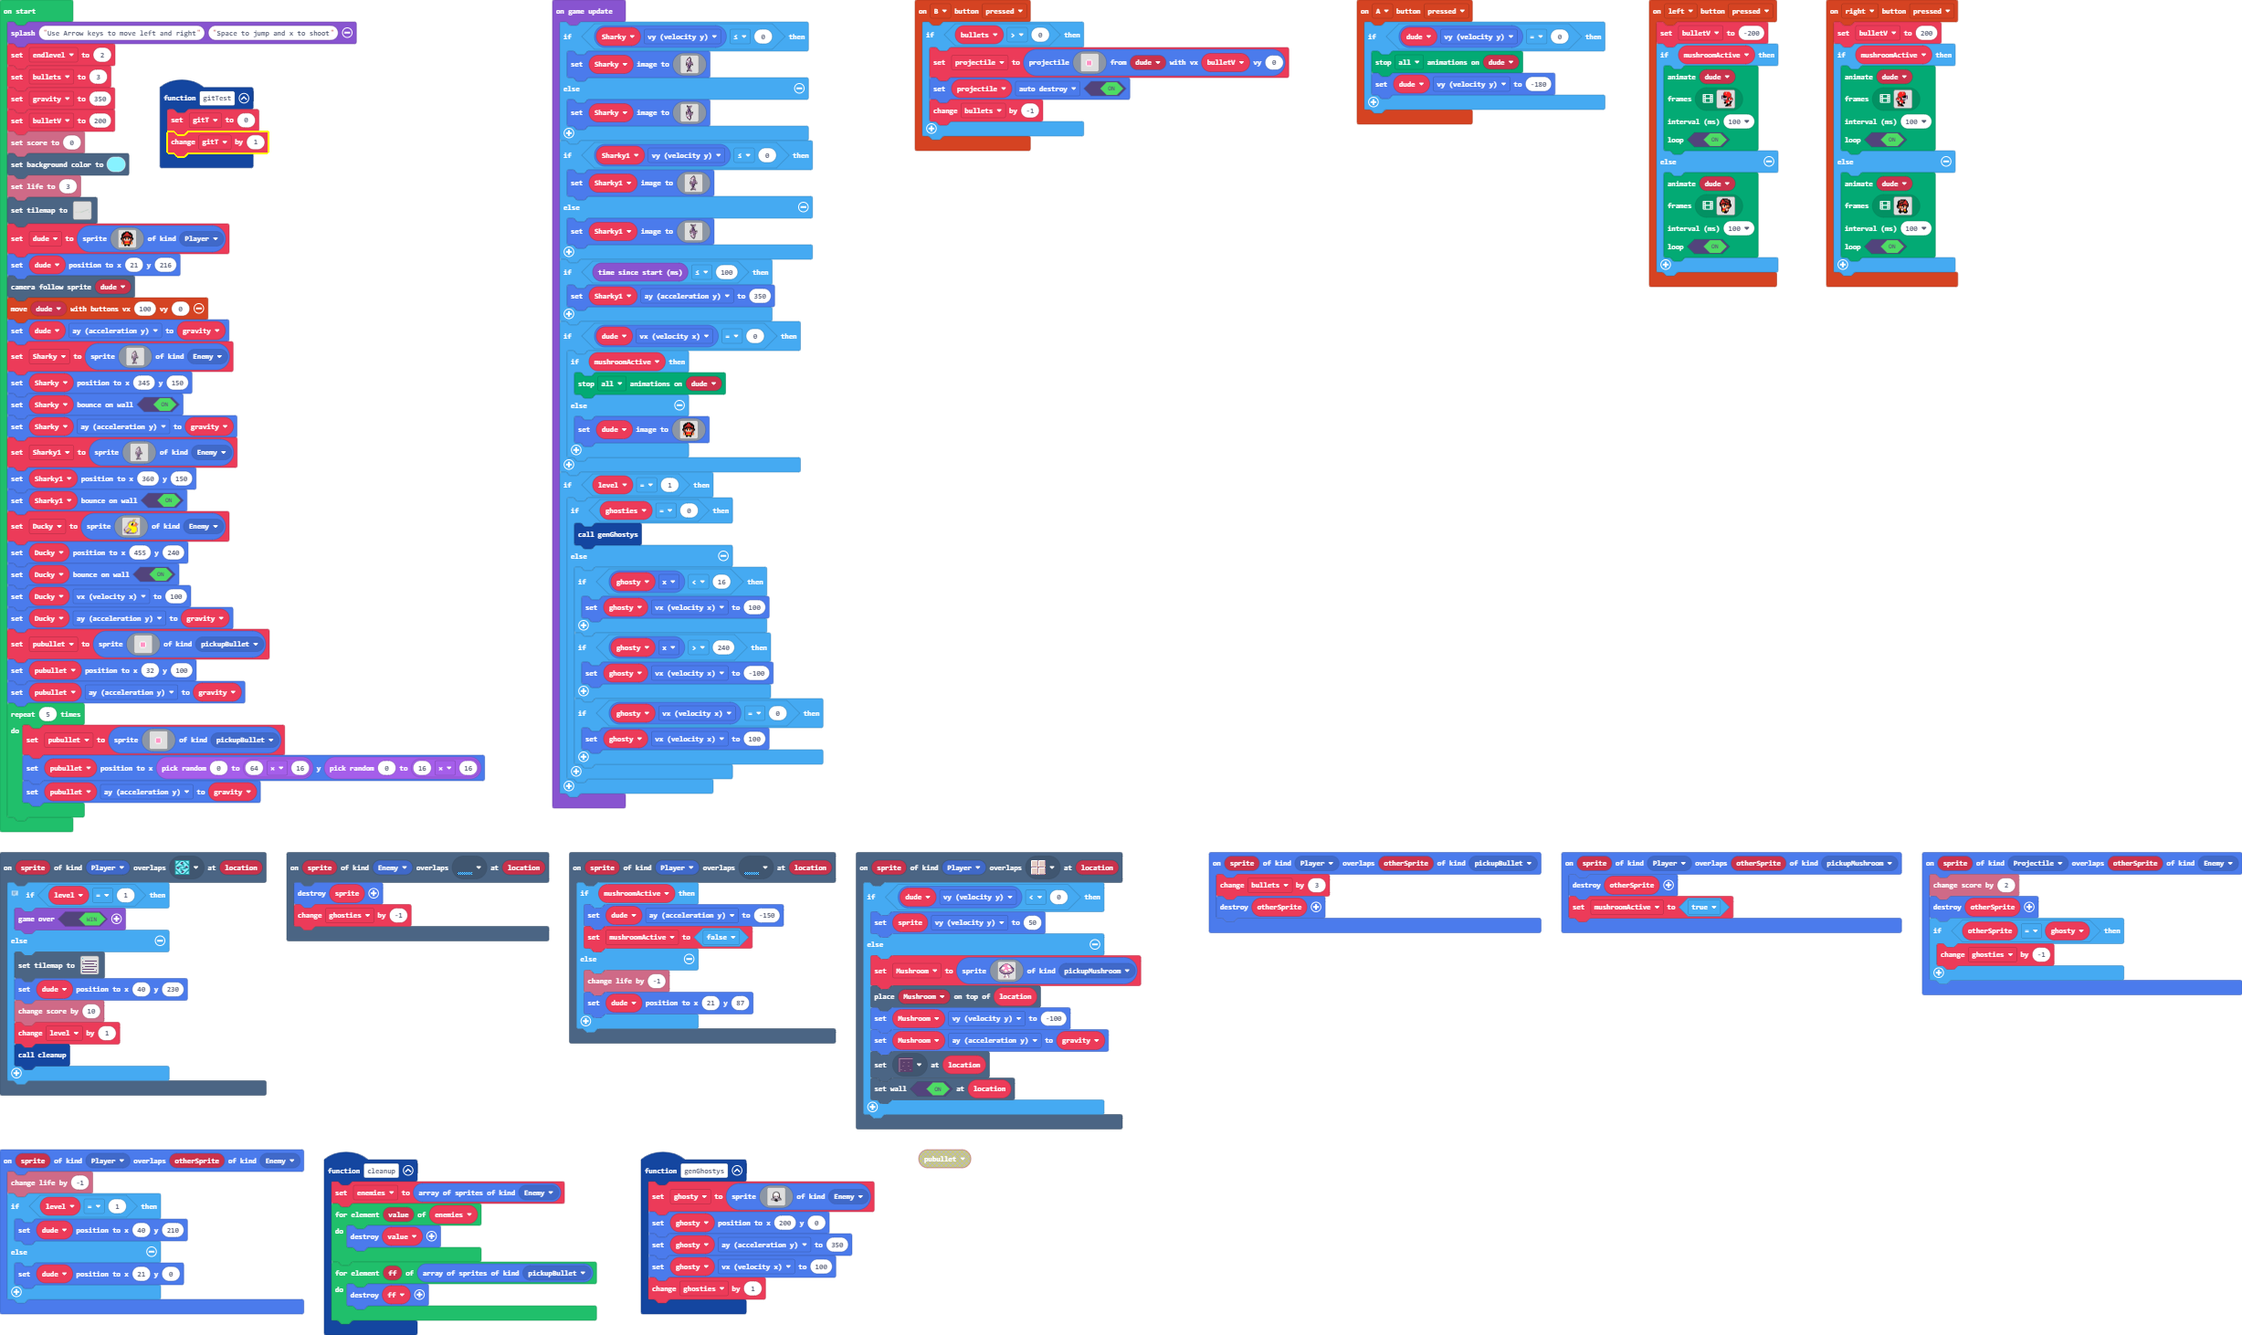
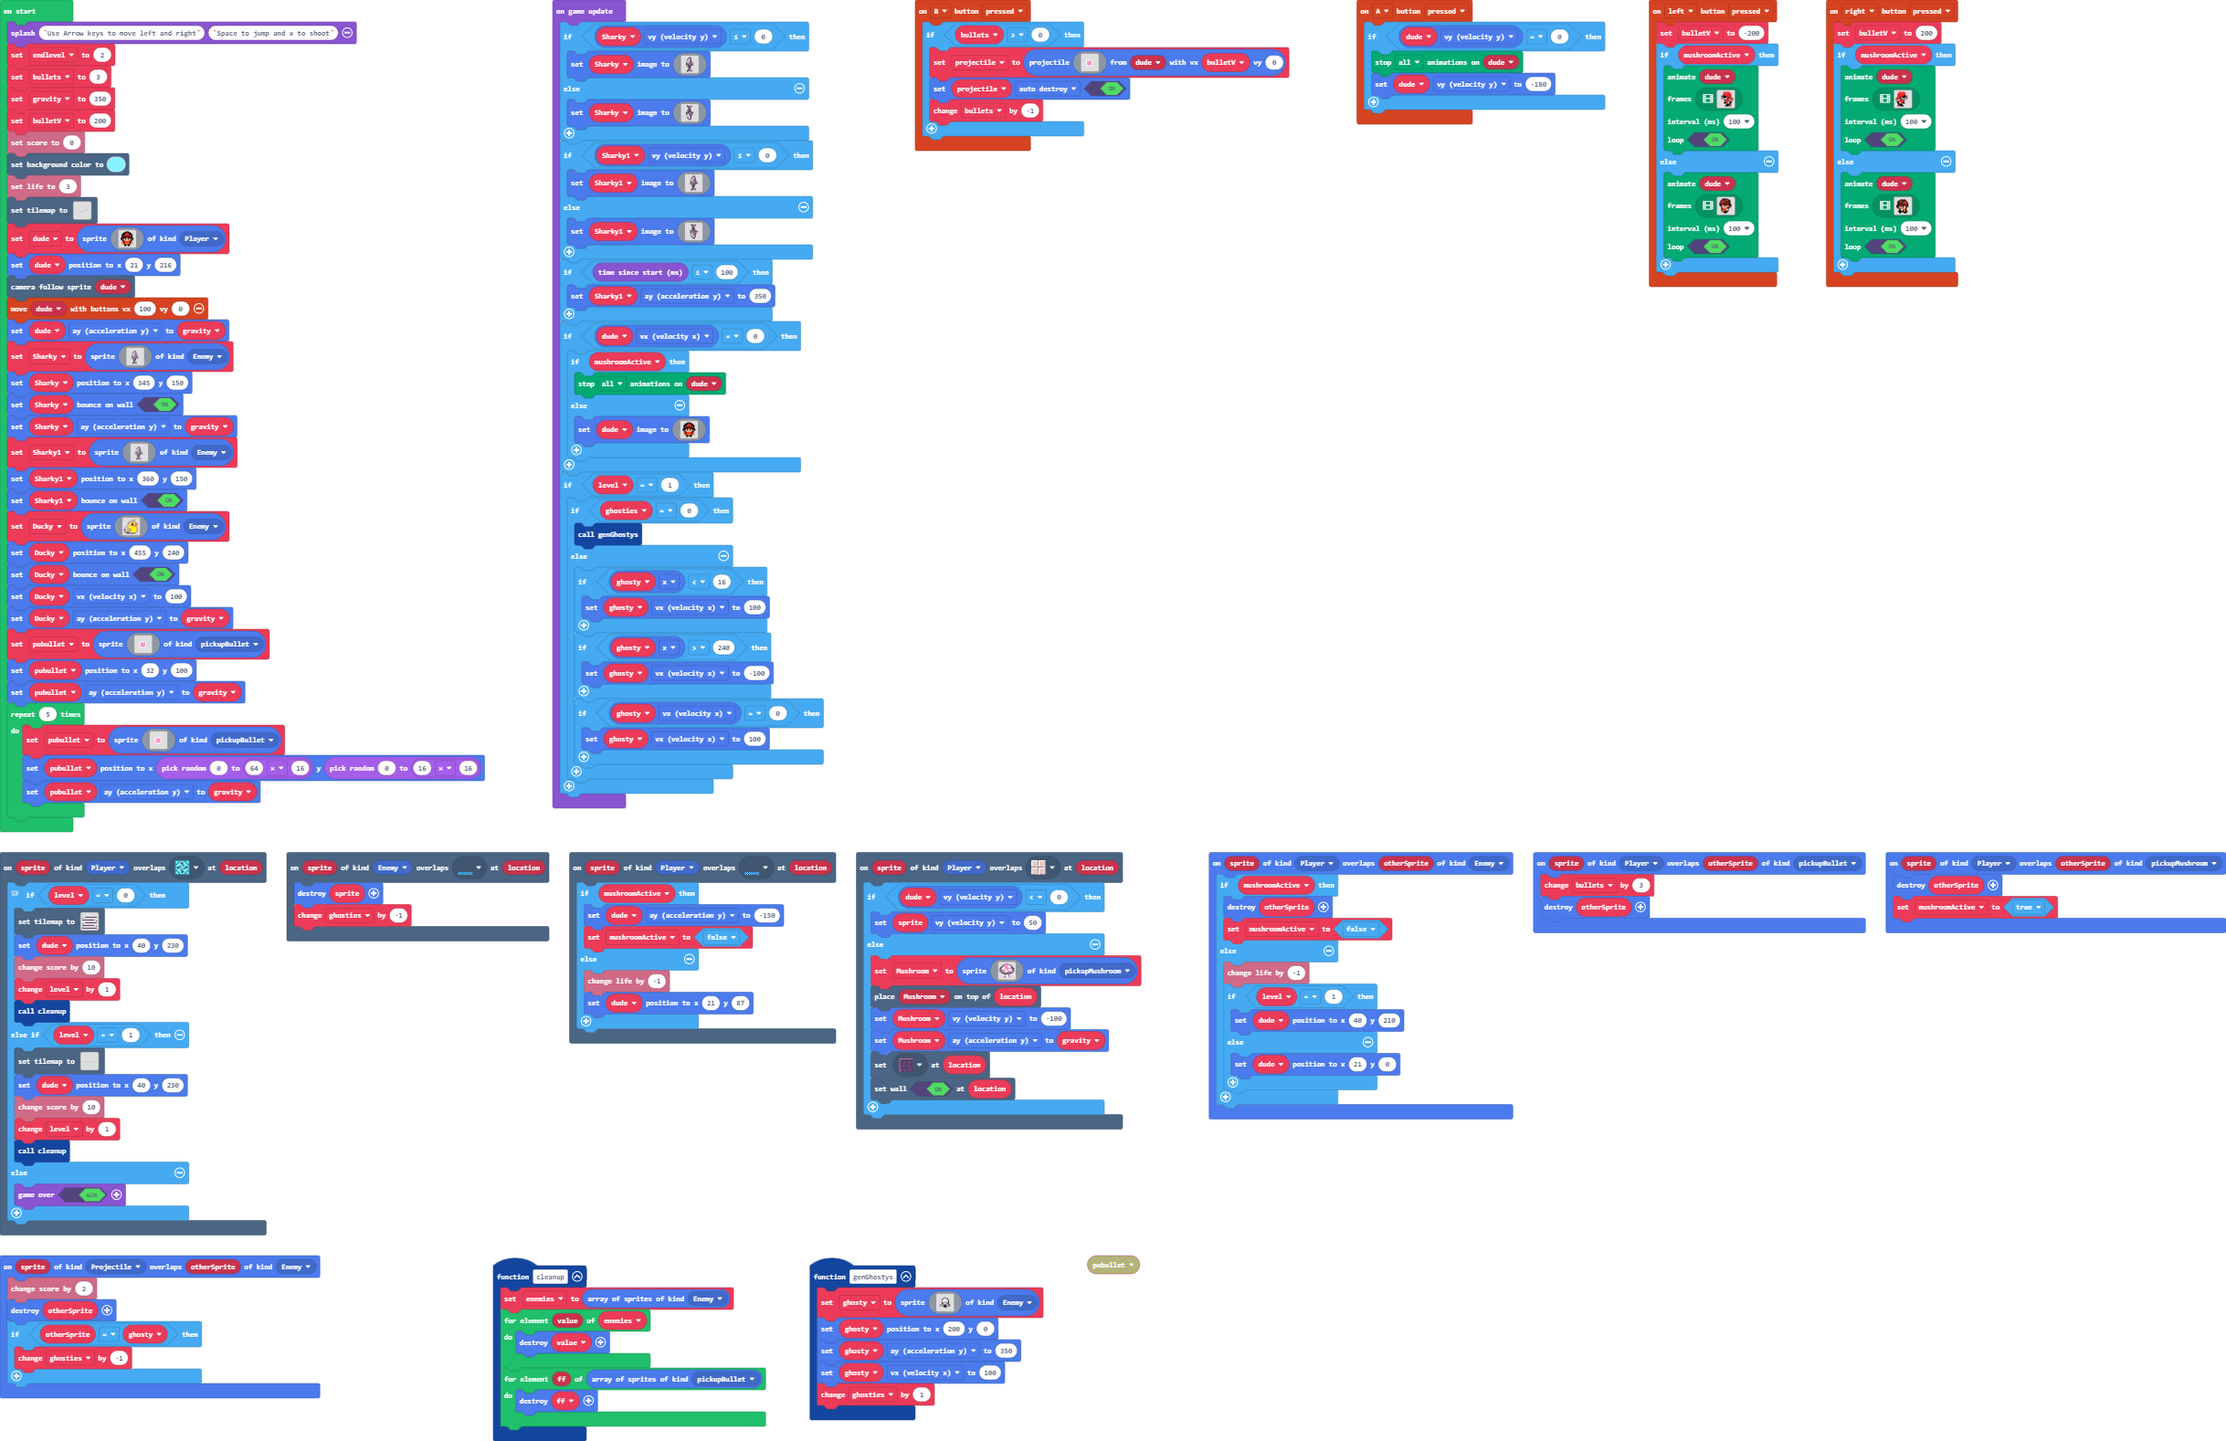
Fix PU enable 3rd level change level logic

Changed region(s): [[0.0, 0.0, 1.0, 1.0], [0.4054, 0.0, 0.9044, 0.2155]]

diff --git a/tilemap.g.ts b/tilemap.g.ts
@@ -7,25 +7,6 @@ namespace myTiles {
 
     helpers._registerFactory("tilemap", function(name: string) {
         switch(helpers.stringTrim(name)) {
-            case "level3":
-            case "level3":return tiles.createTilemap(hex`1000100000000000000000000000000000000000000000000000000000000000000000000000000000000000000000000000000000000000000000000000000000000000000000000000000000000000000000000000000000000000000000000000000000000000000000000000000000000000000000000000000000000000000000000000000000000000000000000000000000000000000000000000000000000000000000000000000000000000000000000000000000000000000000000000000000000000000000000000000000000000000000000000000000000000000000000000000000000000000000000000000000000000000000000000000000000000`, img`
-. . . . . . . . . . . . . . . . 
-. . . . . . . . . . . . . . . . 
-. . . . . . . . . . . . . . . . 
-. . . . . . . . . . . . . . . . 
-. . . . . . . . . . . . . . . . 
-. . . . . . . . . . . . . . . . 
-. . . . . . . . . . . . . . . . 
-. . . . . . . . . . . . . . . . 
-. . . . . . . . . . . . . . . . 
-. . . . . . . . . . . . . . . . 
-. . . . . . . . . . . . . . . . 
-. . . . . . . . . . . . . . . . 
-. . . . . . . . . . . . . . . . 
-. . . . . . . . . . . . . . . . 
-. . . . . . . . . . . . . . . . 
-. . . . . . . . . . . . . . . . 
-`, [myTiles.transparency16], TileScale.Sixteen);
             case "level2":
             case "level2":return tiles.createTilemap(hex`1000100002000000000000000000000000000000000000000000000000000000000000000000000000000000000000000000000000000001010101010101010101010101010000000000000000000000000000000000000000000000000000000000000001010101010101010101010101000000000000000000000000000000000000010000000000000000000000000000000000000001010101010101010101010101010000000000000000000000000000000000000000000000000000000000000003010101010101010101010101000000000000000000000000000000000000010400000000000000000000000000000001010101010101010101010101010101`, img`
 . . . . . . . . . . . . . . . . 
@@ -140,6 +121,101 @@ namespace myTiles {
 ..2................22..22....22.................................
 22222.222222222222222..22222..................................22
 `, [myTiles.transparency16,sprites.castle.tilePath1,sprites.castle.tilePath2,sprites.castle.tilePath5,sprites.castle.tilePath3,sprites.castle.tilePath4,sprites.castle.tilePath6,sprites.castle.tileGrass3,sprites.builtin.forestTiles2,sprites.builtin.forestTiles4,sprites.builtin.forestTiles1,sprites.builtin.forestTiles3,sprites.builtin.forestTiles8,sprites.builtin.forestTiles16,sprites.builtin.forestTiles22,sprites.builtin.forestTiles28,sprites.builtin.forestTiles0,sprites.dungeon.collectibleInsignia,myTiles.tile1,sprites.dungeon.floorLight0], TileScale.Sixteen);
+            case "level3":
+            case "level3":return tiles.createTilemap(hex`800010000000000000000000000000000000000000000000000000000000000000000000000000000000000000000000000000000000000000000000000000000000000000000000000000000000000000000000000000000000000000000000000000000000000000000000000000000000000000000000000000000000000000000000000000000000000000000000000000000000000000000000000000000000000000000000000000000000000000000000000000000000000000000000000000000000000000000000000000000000000000000000000000000000000000000000000000000000000000000000000000000000000000000000000000000000000000000000000000000000000000000000000000000000000000000000000000000000000000000000000000000000000000000000000000000000000000000000000000000000000000000000000000000000000000000000000000000000000000000000000000000000000000000000000000000000000000000000000000000000000000000000000000000000000000000000000000000000000000000000000000000000000000000000000000000000000000000000000000000000000000000000000000000000000000000000000000000000000000000000000000000000000000000000000000000000000000000000000000000000000000000000000000000000000000000000000000000000000000000000000000000000000000000000000000000000000000000000000000000000000000000000000000000000000000000000000000000000000000000000000000000000000000000000000000000000000000000000000000000000000000000000000000000000000000000000000000000000000000000000000000000000000000000000000000000000000000000000000000000000000000000000000000000000000000000000000000000000000000000000000000000000000000000000000000000000000000000000000000000000000000000000000000000000000000000000000000000000000000000000000000000000000000000000000000000000000000000000000000000000000000000000000000000000000000000000000000000000000000000000000000000000000000000000000000000000000000000000000000000000000000000000000000000000000000000000000000000000000000000000000000000000000000000000000000000000000000000000000000000000000000000000000000000000000000000000000000000000000000000000000000000000000000000000000000000000000000000000000000000000000000000000000000000000000000000000000000000000000000000000000000000000000000000000000000000000000000000000000000000000000000000000000000000000000000000000000000000000000000000000000000000000000000000000000000000000000000000000000000000000000000000000000000000000000000000000000000000000000000000000000000000000000000000000000000000000000000000000000000000000000000000000000000000000000000000000000000000000000000000000000000000000000000000000000000000000000000000000000000000000000000000000000000000000000000000000000000000000000000000000000000000000000000000000000000000000000000000000000000000000000000000000000000000000000000000000000000000000000000000000000000000000000000000000000000000000000000000000000000000000000000000000000000000000000000000000000000000000000000000000000000000000000000000000000000000000000000000000000000000000000000000000000000000000000000000000000000000000000000000000000000000000000000000000000000000000000000000000000000000000000000000000000000000000000000000000000000000000000000000000000000000000000000000000000000000000000000000000000000000000000000000000000000000000000000000000000000000000000000000000000000000000000000000000000000000000000000000000000000000000000000000000000000000000000000000000000000000000000000000000000000000000000000000000000000000000000000000000000000000000000000000000000000000000000000000000000000000000000000000000000000000000000000000000000000000000000000000000000000000000000000000000000000000000000000000000000000000000000000000000000000000000000000000000000000000000000000000000000000000000000000000000000000000000000000000000000000000000000001000000000000000000000000000000000000000000000000000000000000000000000000000000000000000000000000000000000000000000000000000000000000000000000000000000000000000000000000000000000000000000000000000000000000000000000000000000000000000000000000000000000000020001010101010101010101010101010101010101010101010101010101010101010101010101010101010101010101010101010101010101010101010101010101010101010101010101010101010101010101010101010101010101010101010101010101010101010101010101010101010101010101010101010101010101`, img`
+................................................................................................................................
+................................................................................................................................
+................................................................................................................................
+................................................................................................................................
+................................................................................................................................
+................................................................................................................................
+................................................................................................................................
+................................................................................................................................
+................................................................................................................................
+................................................................................................................................
+................................................................................................................................
+................................................................................................................................
+................................................................................................................................
+................................................................................................................................
+................................................................................................................................
+22222222222222222222222222222222222222222222222222222222222222222222222222222222222222222222222222222222222222222222222222222222
+`, [myTiles.transparency16,sprites.builtin.oceanDepths3,sprites.dungeon.collectibleInsignia], TileScale.Sixteen);
+            case "level8":
+            case "level8":return tiles.createTilemap(hex`1000100000000000000000000000000000000000000000000000000000000000000000000000000000000000000000000000000000000000000000000000000000000000000000000000000000000000000000000000000000000000000000000000000000000000000000000000000000000000000000000000000000000000000000000000000000000000000000000000000000000000000000000000000000000000000000000000000000000000000000000000000000000000000000000000000000000000000000000000000000000000000000000000000000000000000000000000000000000000000000000000000000000000000000000000000000000000`, img`
+. . . . . . . . . . . . . . . . 
+. . . . . . . . . . . . . . . . 
+. . . . . . . . . . . . . . . . 
+. . . . . . . . . . . . . . . . 
+. . . . . . . . . . . . . . . . 
+. . . . . . . . . . . . . . . . 
+. . . . . . . . . . . . . . . . 
+. . . . . . . . . . . . . . . . 
+. . . . . . . . . . . . . . . . 
+. . . . . . . . . . . . . . . . 
+. . . . . . . . . . . . . . . . 
+. . . . . . . . . . . . . . . . 
+. . . . . . . . . . . . . . . . 
+. . . . . . . . . . . . . . . . 
+. . . . . . . . . . . . . . . . 
+. . . . . . . . . . . . . . . . 
+`, [myTiles.transparency16], TileScale.Sixteen);
+            case "level9":
+            case "level9":return tiles.createTilemap(hex`1000100000000000000000000000000000000000000000000000000000000000000000000000000000000000000000000000000000000000000000000000000000000000000000000000000000000000000000000000000000000000000000000000000000000000000000000000000000000000000000000000000000000000000000000000000000000000000000000000000000000000000000000000000000000000000000000000000000000000000000000000000000000000000000000000000000000000000000000000000000000000000000000000000000000000000000000000000000000000000000000000000000000000000000000000000000000000`, img`
+. . . . . . . . . . . . . . . . 
+. . . . . . . . . . . . . . . . 
+. . . . . . . . . . . . . . . . 
+. . . . . . . . . . . . . . . . 
+. . . . . . . . . . . . . . . . 
+. . . . . . . . . . . . . . . . 
+. . . . . . . . . . . . . . . . 
+. . . . . . . . . . . . . . . . 
+. . . . . . . . . . . . . . . . 
+. . . . . . . . . . . . . . . . 
+. . . . . . . . . . . . . . . . 
+. . . . . . . . . . . . . . . . 
+. . . . . . . . . . . . . . . . 
+. . . . . . . . . . . . . . . . 
+. . . . . . . . . . . . . . . . 
+. . . . . . . . . . . . . . . . 
+`, [myTiles.transparency16], TileScale.Sixteen);
+            case "level10":
+            case "level10":return tiles.createTilemap(hex`1000100000000000000000000000000000000000000000000000000000000000000000000000000000000000000000000000000000000000000000000000000000000000000000000000000000000000000000000000000000000000000000000000000000000000000000000000000000000000000000000000000000000000000000000000000000000000000000000000000000000000000000000000000000000000000000000000000000000000000000000000000000000000000000000000000000000000000000000000000000000000000000000000000000000000000000000000000000000000000000000000000000000000000000000000000000000000`, img`
+. . . . . . . . . . . . . . . . 
+. . . . . . . . . . . . . . . . 
+. . . . . . . . . . . . . . . . 
+. . . . . . . . . . . . . . . . 
+. . . . . . . . . . . . . . . . 
+. . . . . . . . . . . . . . . . 
+. . . . . . . . . . . . . . . . 
+. . . . . . . . . . . . . . . . 
+. . . . . . . . . . . . . . . . 
+. . . . . . . . . . . . . . . . 
+. . . . . . . . . . . . . . . . 
+. . . . . . . . . . . . . . . . 
+. . . . . . . . . . . . . . . . 
+. . . . . . . . . . . . . . . . 
+. . . . . . . . . . . . . . . . 
+. . . . . . . . . . . . . . . . 
+`, [myTiles.transparency16], TileScale.Sixteen);
+            case "level11":
+            case "level11":return tiles.createTilemap(hex`1000100000000000000000000000000000000000000000000000000000000000000000000000000000000000000000000000000000000000000000000000000000000000000000000000000000000000000000000000000000000000000000000000000000000000000000000000000000000000000000000000000000000000000000000000000000000000000000000000000000000000000000000000000000000000000000000000000000000000000000000000000000000000000000000000000000000000000000000000000000000000000000000000000000000000000000000000000000000000000000000000000000000000000000000000000000000000`, img`
+. . . . . . . . . . . . . . . . 
+. . . . . . . . . . . . . . . . 
+. . . . . . . . . . . . . . . . 
+. . . . . . . . . . . . . . . . 
+. . . . . . . . . . . . . . . . 
+. . . . . . . . . . . . . . . . 
+. . . . . . . . . . . . . . . . 
+. . . . . . . . . . . . . . . . 
+. . . . . . . . . . . . . . . . 
+. . . . . . . . . . . . . . . . 
+. . . . . . . . . . . . . . . . 
+. . . . . . . . . . . . . . . . 
+. . . . . . . . . . . . . . . . 
+. . . . . . . . . . . . . . . . 
+. . . . . . . . . . . . . . . . 
+. . . . . . . . . . . . . . . . 
+`, [myTiles.transparency16], TileScale.Sixteen);
         }
         return null;
     })

diff --git a/main.ts b/main.ts
@@ -74,10 +74,6 @@ controller.A.onEvent(ControllerButtonEvent.Pressed, function () {
         dude.vy = -180
     }
 })
-function gitTest () {
-    gitT = 0
-    gitT += 1
-}
 controller.left.onEvent(ControllerButtonEvent.Pressed, function () {
     bulletV = -200
     if (mushroomActive) {
@@ -193,29 +189,39 @@ scene.onOverlapTile(SpriteKind.Player, sprites.dungeon.collectibleInsignia, func
     // pubullet.setPosition(randint(0, 16 * 16), randint(0, 16 * 16))
     // pubullet.ay = gravity
     // }
-    if (level == 1) {
-        game.over(true)
-    } else {
+    if (level == 0) {
         tiles.setTilemap(tilemap`level2`)
         dude.setPosition(40, 230)
         info.changeScoreBy(10)
         level += 1
         cleanup()
+    } else if (level == 1) {
+        tiles.setTilemap(tilemap`level3`)
+        dude.setPosition(40, 230)
+        info.changeScoreBy(10)
+        level += 1
+        cleanup()
+    } else {
+        game.over(true)
     }
 })
 sprites.onOverlap(SpriteKind.Player, SpriteKind.Enemy, function (sprite, otherSprite) {
-    info.changeLifeBy(-1)
-    if (level == 1) {
-        dude.setPosition(40, 210)
+    if (mushroomActive) {
+        otherSprite.destroy()
+        mushroomActive = false
     } else {
-        dude.setPosition(21, 0)
+        info.changeLifeBy(-1)
+        if (level == 1) {
+            dude.setPosition(40, 210)
+        } else {
+            dude.setPosition(21, 0)
+        }
     }
 })
 let level = 0
 let ghosty: Sprite = null
 let ghosties = 0
 let enemies: Sprite[] = []
-let gitT = 0
 let mushroomActive = false
 let projectile: Sprite = null
 let Mushroom: Sprite = null
